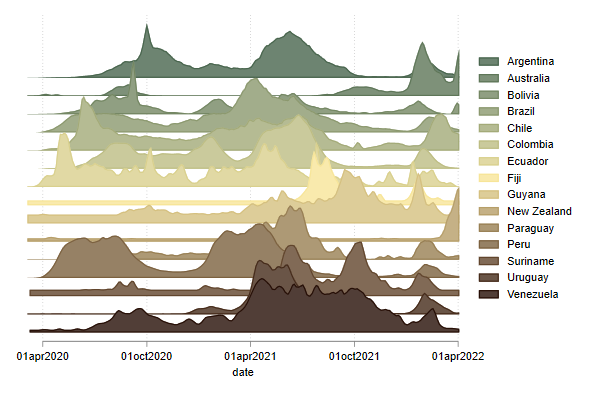
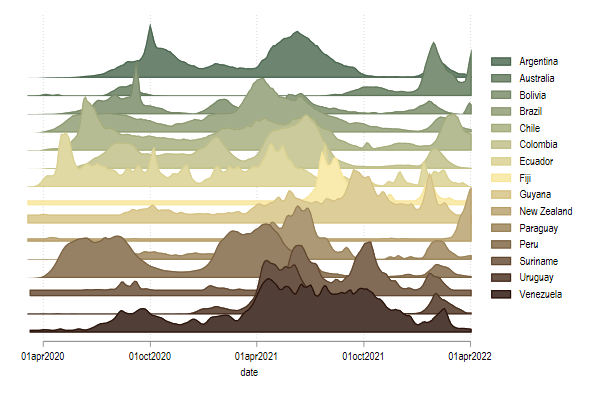
ridgeline_plot

diff --git a/ridgeline.md b/ridgeline.md
@@ -83,12 +83,48 @@ ylabel("")
 ```
 ![rig_6](./figures/ridge6.png)
 
+Other enhancements
+Draw lines rather than areas:
 
+```
+ridgeline_plot new_deaths date, over(country) ///
+normalize /// Normalizes height within country
+notext alegend /// automatic legend
+dadj(3) /// and allows for overlap
+ytitle("") line // Draws lines rather than areas
+```
 
+![rig_7](./figures/ridge7.png)
 
+Or draw them with White background
+```
+ridgeline_plot new_deaths date, over(country) ///
+normalize /// Normalizes height within country
+notext alegend /// automatic legend
+bwadj2(0.5) /// adjusts ALL Bandwidths
+dadj(3) /// and allows for overlap
+ytitle("") line /// Draws lines rather than areas
+colorpalette(cividis) ///
+white // and uses WHite background
+```
 
+![rig_9](./figures/ridge8.png)
 
+Or draw them or black background
 
+```
+set scheme black
+ridgeline_plot new_deaths date, over(country) ///
+normalize /// Normalizes height within country
+notext alegend /// automatic legend
+bwadj2(0.5) /// adjusts ALL Bandwidths
+dadj(3) /// and allows for overlap
+ytitle("") line /// Draws lines rather than areas
+colorpalette(hue) ///
+black // and uses black background
+```
+
+![rig_8](./figures/ridge9.png)
 
 
 
